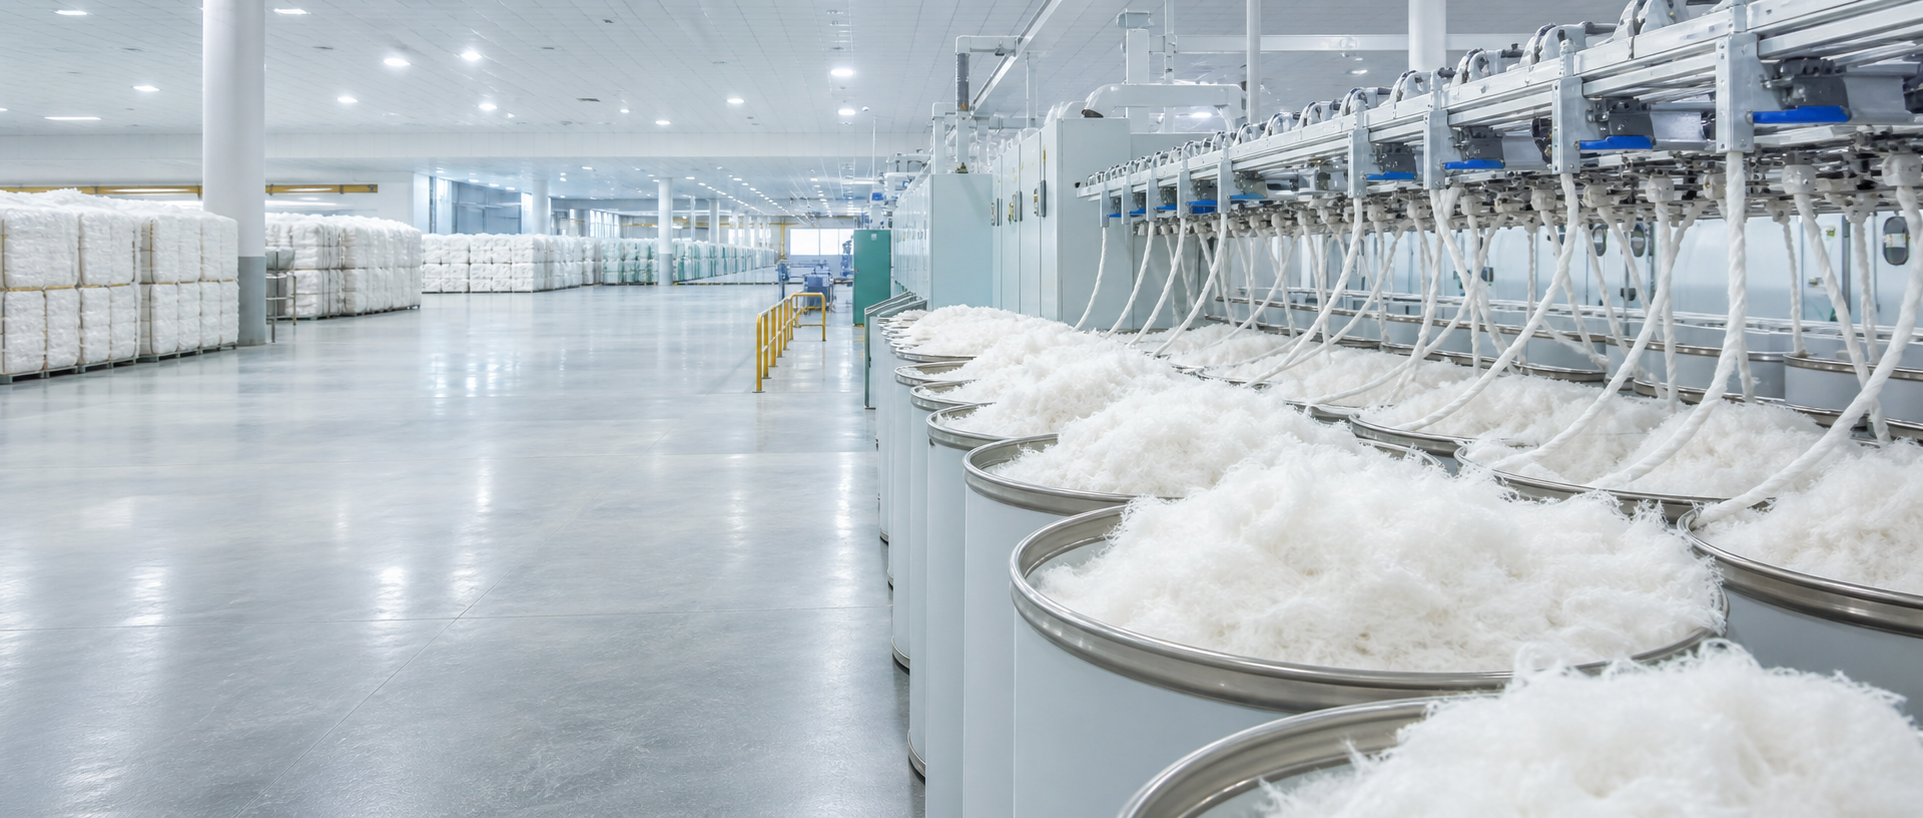
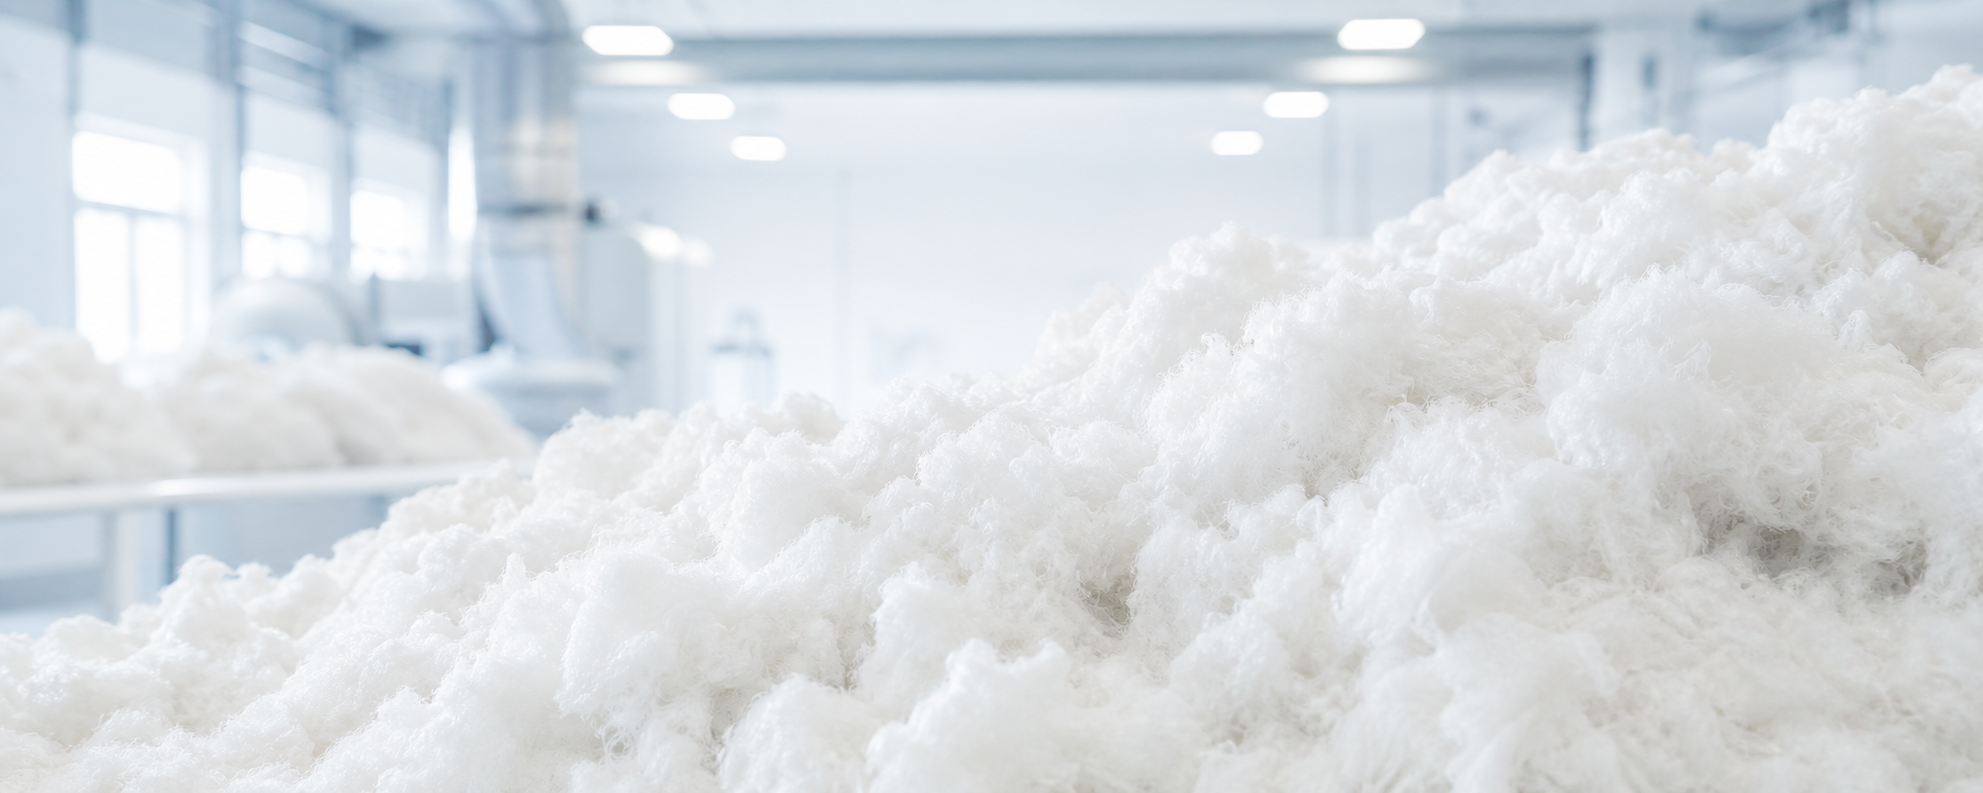
chang

diff --git a/app/globals.css b/app/globals.css
@@ -361,7 +361,7 @@ p {
   color: #ffffff;
   background:
     linear-gradient(90deg, rgba(13, 36, 56, 0.72), rgba(13, 36, 56, 0.34) 43%, rgba(13, 36, 56, 0.04) 72%),
-    url("/fiber-hero.png") center / cover no-repeat;
+    url("/fiber-hero-minimal.png") center / cover no-repeat;
 }
 
 .home-action-grid {
